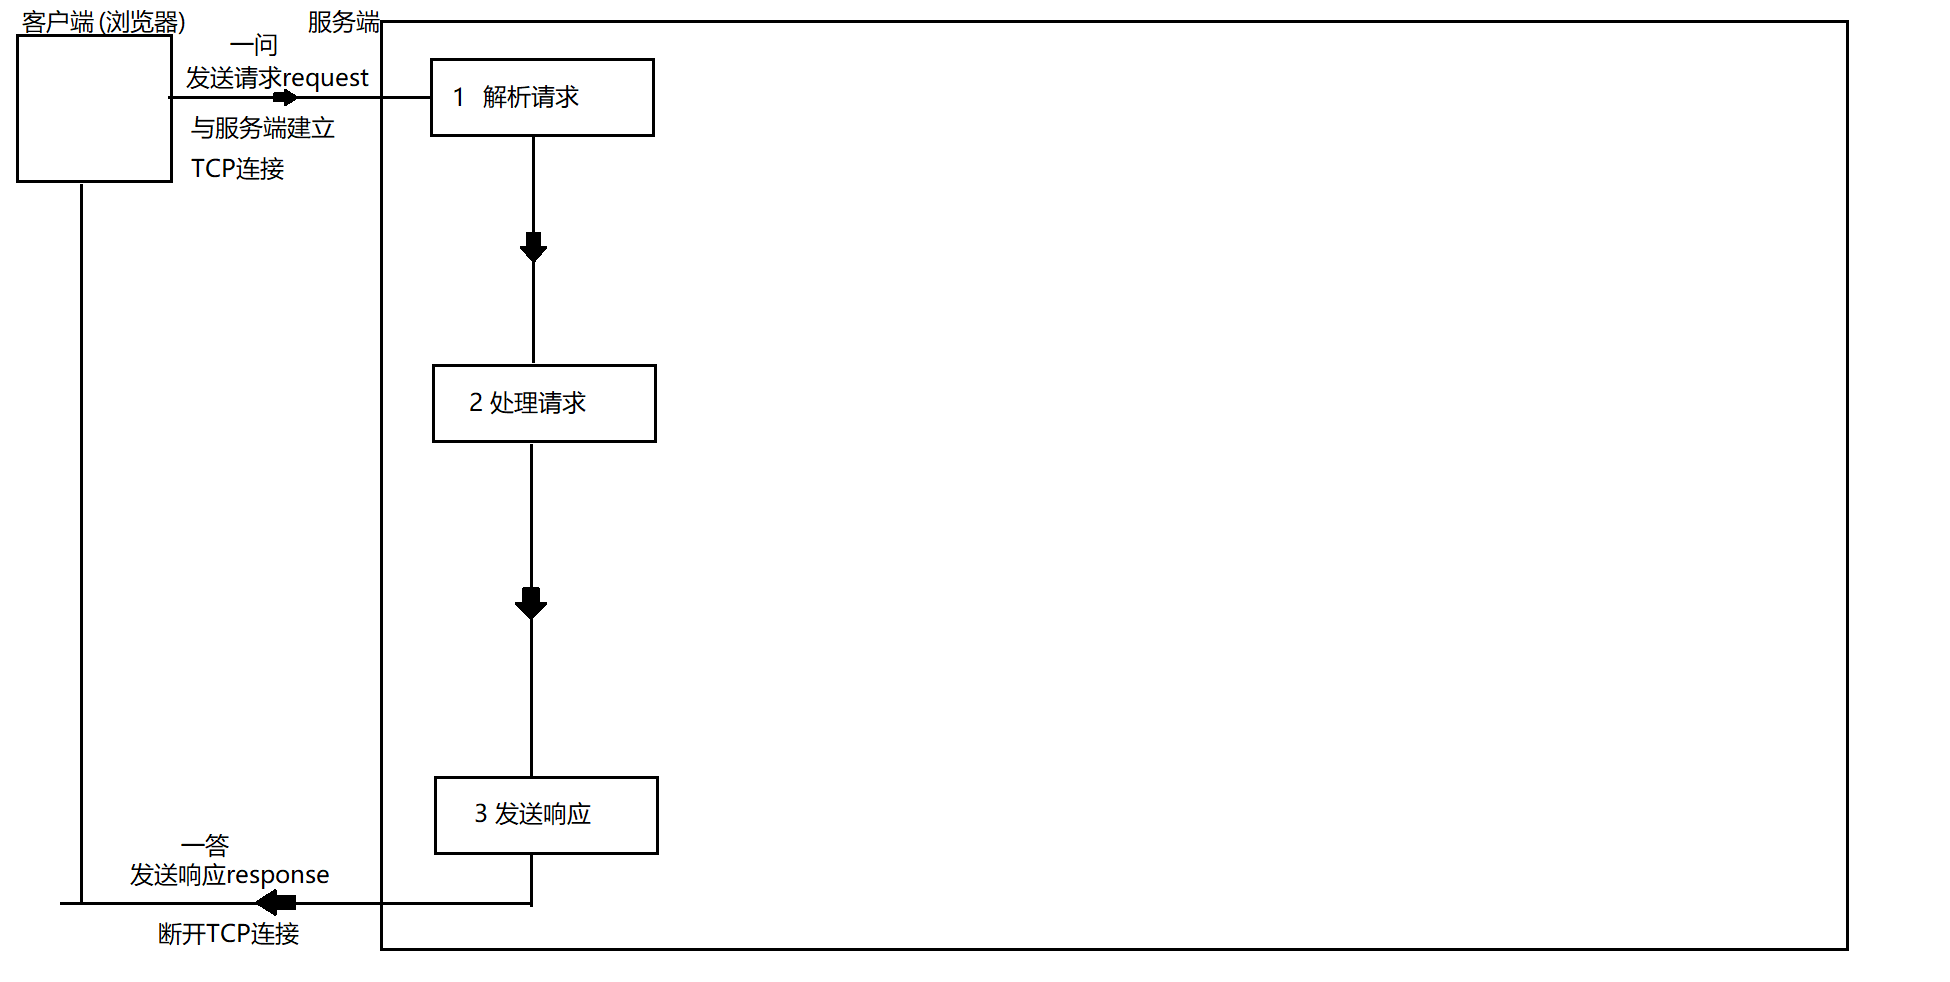
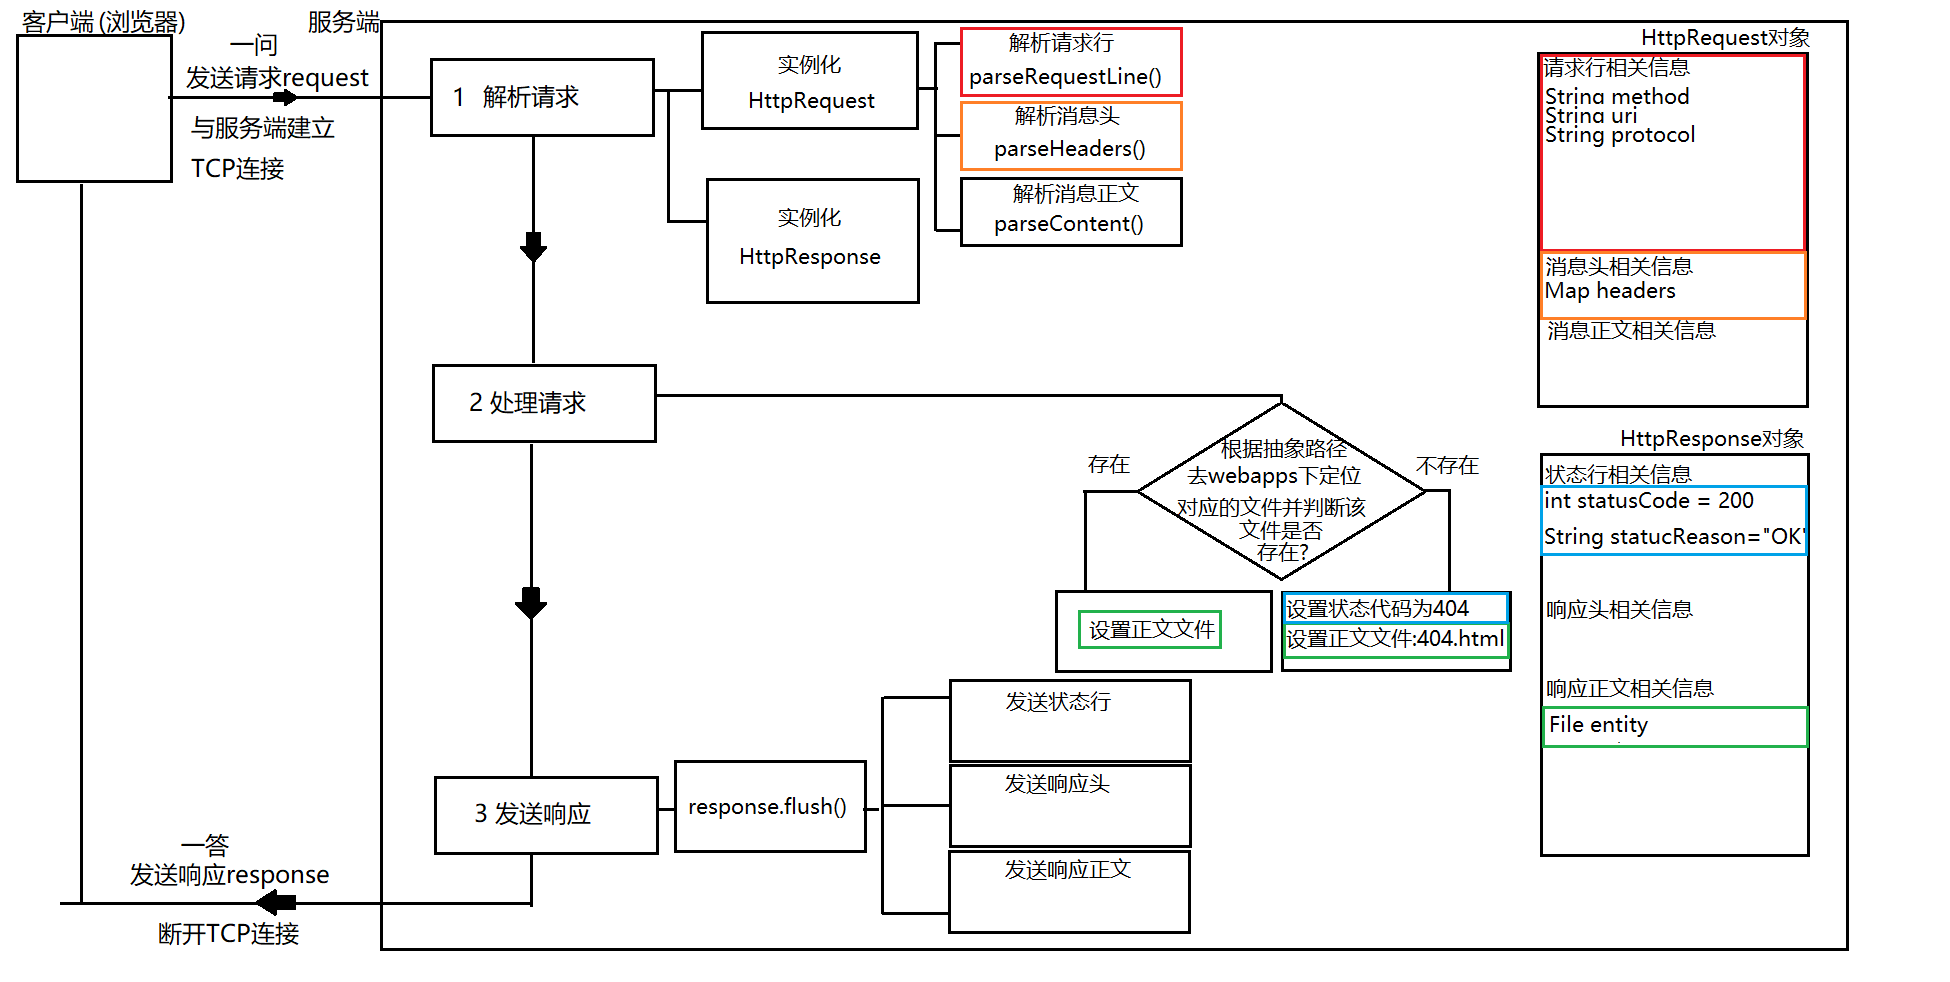
第四天

diff --git a/webapps/myweb/index.html b/webapps/myweb/index.html
@@ -38,10 +38,25 @@
 
          -->
         <center>
-            <h1>百度</h1>
+            <!--<h1>百度</h1>-->
+            <!--
+                相对路径:
+                ./:当前目录,在页面上指定的相对路径是被浏览器解释的
+                   而浏览器理解当前目录的位置是根据浏览器地址栏中
+                   请求当前页面时的路径而定的.
+                例如:请求当前index.html页面时,浏览器地址栏输入路径:
+                http://localhost:8088/myweb/index.html
+                当前目录为:
+                http://localhost:8088/myweb/
+                因此下面图片src="./logo.png"
+                浏览器理解该图片的实际路径为:
+                http://localhost:8088/myweb/logo.png
+             -->
+            <img src="./logo.png"><br>
             <input type="text" size="32">
             <input type="button" value="百度一下"><br>
-            <a href="http://www.taobao.com">淘宝</a><br>
+            <a href="http://www.taobao.com">淘宝</a>
+            <a href="./classTable.html">课程表</a><br>
             <table border="1">
                 <tr>
                     <td rowspan="2">第一列</td>

diff --git a/V9/src/main/java/com/webserver/http/HttpRequest.java b/V9/src/main/java/com/webserver/http/HttpRequest.java
@@ -1,0 +1,116 @@
+package com.webserver.http;
+
+import java.io.IOException;
+import java.io.InputStream;
+import java.net.Socket;
+import java.util.HashMap;
+import java.util.Map;
+
+/**
+ * 请求对象
+ * 该类的每一个实例用于表示客户端发送给浏览器的一个HTTP请求
+ * HTTP协议规定一个请求包含三部分内容:
+ * 请求行,消息头,消息正文
+ */
+public class HttpRequest {
+    //请求行相关信息
+    private String method;//请求方式
+    private String uri;//抽象路径
+    private String protocol;//协议版本
+
+    //消息头相关信息
+    //存放所有消息头的Map,key:消息头的名字 value:消息头的值
+    private Map<String,String> headers = new HashMap<>();
+
+    //消息正文相关信息
+
+
+    private Socket socket;
+    /**
+     * 实例化HttpRequest的过程就是解析请求的过程
+     */
+    public HttpRequest(Socket socket) throws IOException {
+        this.socket = socket;
+        //1解析请求行
+        parseRequestLine();
+        //2解析消息头
+        parseHeaders();
+        //3解析消息正文
+        parseContent();
+    }
+
+    /**
+     * 解析请求行
+     */
+    private void parseRequestLine() throws IOException {
+        String line = readLine();
+        System.out.println("请求行:"+line);
+        String[] data = line.split("\\s");
+        method = data[0];
+        uri = data[1];
+        protocol = data[2];
+        System.out.println("method:"+method);
+        System.out.println("uri:"+uri);
+        System.out.println("protocol:"+protocol);
+    }
+
+    /**
+     * 解析消息头
+     */
+    private void parseHeaders() throws IOException {
+        while(true) {
+            String line = readLine();
+            //读取请求行时如果返回的是空字符串,说明单独读取到了CRLF
+            if(line.isEmpty()){
+                break;
+            }
+            System.out.println("消息头:" + line);
+            String[] data = line.split(":\\s");
+            headers.put(data[0],data[1]);
+        }
+        System.out.println("headers:"+headers);
+    }
+
+    /**
+     * 解析消息正文
+     */
+    private void parseContent(){}
+
+    private String readLine() throws IOException {
+        /*
+            调用同一个socket的getInputStream方法时,无论调用多少次
+            返回的输入流始终是同一个流.输出流也是一样的.
+         */
+        InputStream in = socket.getInputStream();
+        StringBuilder builder = new StringBuilder();
+        //cur表示本次读取到的字符,pre表示上次读取到的字符
+        char cur='a',pre='a';
+        int d;
+        while((d = in.read())!=-1){
+            cur = (char)d;
+            //上次读到的是回车符本次读取到的是换行符
+            if(pre==13&&cur==10){
+                break;
+            }
+            builder.append(cur);
+            pre = cur;
+        }
+        return builder.toString().trim();
+    }
+
+    public String getMethod() {
+        return method;
+    }
+
+    public String getUri() {
+        return uri;
+    }
+
+    public String getProtocol() {
+        return protocol;
+    }
+
+    public String getHeader(String name){
+        return headers.get(name);
+    }
+}

diff --git a/V9/src/main/java/com/webserver/http/HttpResponse.java b/V9/src/main/java/com/webserver/http/HttpResponse.java
@@ -1,0 +1,99 @@
+package com.webserver.http;
+
+import java.io.File;
+import java.io.FileInputStream;
+import java.io.IOException;
+import java.io.OutputStream;
+import java.net.Socket;
+
+/**
+ * 响应对象
+ * 该类的每一个实例用于表示一个HTTP的响应.每个响应应当包含三部分:
+ * 状态行,响应头,响应正文
+ */
+public class HttpResponse {
+    //状态行相关信息
+    private int statusCode = 200;//状态代码(默认值为200)
+    private String statusReason = "OK";//状态描述
+    //响应头相关信息
+
+    //响应正文相关信息
+    private File entity;//正文对应的一个实体文件
+
+    private Socket socket;
+    public HttpResponse(Socket socket){
+        this.socket = socket;
+    }
+
+
+    /**
+     * 将当前响应对象内容按照标准的响应格式发送给客户端
+     */
+    public void flush() throws IOException {
+        //1发送状态行
+        sendStatusLine();
+        //2发送响应头
+        sendHeaders();
+        //3发送响应正文
+        sendContent();
+    }
+
+    private void sendStatusLine() throws IOException {
+        String line = "HTTP/1.1"+" "+statusCode+" "+statusReason;
+        println(line);
+    }
+    private void sendHeaders() throws IOException {
+        String line = "Content-Type: text/html";
+        println(line);
+
+        line = "Content-Length: "+entity.length();
+        println(line);
+
+        //单独发送CRLF表示响应头发送完毕
+        println("");
+    }
+    private void sendContent() throws IOException {
+        OutputStream out = socket.getOutputStream();
+        try(
+            FileInputStream fis = new FileInputStream(entity);
+        ){
+            byte[] data = new byte[1024 * 10];
+            int len;
+            while ((len = fis.read(data)) != -1) {
+                out.write(data, 0, len);
+            }
+        }//不用写catch,因为异常要抛给流程控制,所以在方法上定义了throws
+         //不写finally是因为上面的try使用了自动关闭特性,编译器会补充finally
+    }
+
+    private void println(String line) throws IOException {
+        OutputStream out = socket.getOutputStream();
+        out.write(line.getBytes("ISO8859-1"));
+        out.write(13);//发送了一个回车符
+        out.write(10);//发送了一个换行符
+    }
+
+    public int getStatusCode() {
+        return statusCode;
+    }
+
+    public void setStatusCode(int statusCode) {
+        this.statusCode = statusCode;
+    }
+
+    public String getStatusReason() {
+        return statusReason;
+    }
+
+    public void setStatusReason(String statusReason) {
+        this.statusReason = statusReason;
+    }
+
+    public File getEntity() {
+        return entity;
+    }
+
+    public void setEntity(File entity) {
+        this.entity = entity;
+    }
+}

diff --git a/V9/src/main/java/com/webserver/core/ClientHandler.java b/V9/src/main/java/com/webserver/core/ClientHandler.java
@@ -1,0 +1,55 @@
+package com.webserver.core;
+
+
+import com.webserver.http.HttpRequest;
+import com.webserver.http.HttpResponse;
+import com.webserver.servlet.DispatcherServlet;
+
+import java.io.*;
+import java.net.Socket;
+import java.nio.charset.StandardCharsets;
+import java.util.HashMap;
+import java.util.Map;
+
+/**
+ * 处理与指定客户端的HTTP交互
+ * HTTP协议要求客户端与服务端交互为"一问一答"原则.因此当客户端连接
+ * 服务端后,服务端便会启动一个线程来执行ClientHandler.
+ * 这里分为三步完成一次HTTP交互处理:
+ * 1:解析请求(读取客户端发送过来的HTTP请求内容)
+ * 2:处理请求(分析请求内容理解意图并进行对应的处理)
+ * 3:发送响应(将处理结果包含在一个HTTP响应内容中,将其回复给客户端)
+ */
+public class ClientHandler implements Runnable{
+    private Socket socket;
+    public ClientHandler(Socket socket){
+        this.socket = socket;
+    }
+    public void run() {
+        try{
+            //1解析请求
+            HttpRequest request = new HttpRequest(socket);
+            HttpResponse response = new HttpResponse(socket);
+
+            //2处理请求
+            DispatcherServlet servlet = new DispatcherServlet();
+            servlet.service(request,response);
+
+            //3发送响应
+            response.flush();
+
+        }catch(IOException e){
+            e.printStackTrace();
+        }finally {
+            try {
+                //交互完毕后与客户端断开连接(HTTP协议要求)
+                socket.close();
+            } catch (IOException e) {
+                e.printStackTrace();
+            }
+        }
+    }
+
+
+
+}

diff --git a/V9/src/main/java/com/webserver/core/WebServer.java b/V9/src/main/java/com/webserver/core/WebServer.java
@@ -1,0 +1,48 @@
+package com.webserver.core;
+
+import java.io.IOException;
+import java.io.InputStream;
+import java.net.ServerSocket;
+import java.net.Socket;
+
+/**
+ * WebServer主类
+ * WebServer是一个Web容器，实现了Tomcat的基础功能。
+ */
+public class WebServer {
+    private ServerSocket serverSocket;
+
+    public WebServer(){
+        try {
+            System.out.println("正在启动服务端...");
+            serverSocket = new ServerSocket(8088);
+            System.out.println("服务端启动完毕!");
+        } catch (IOException e) {
+            e.printStackTrace();
+        }
+    }
+
+    public void start(){
+        try {
+            System.out.println("等待客户端链接...");
+            Socket socket = serverSocket.accept();
+            System.out.println("一个客户端链接了!");
+
+            //启动一个线程来处理该客户端的交互
+            ClientHandler handler = new ClientHandler(socket);
+            Thread t = new Thread(handler);
+            t.start();
+
+
+
+        } catch (IOException e) {
+            e.printStackTrace();
+        }
+
+    }
+
+    public static void main(String[] args) {
+        WebServer server = new WebServer();
+        server.start();
+    }
+}

diff --git a/V9/src/main/java/com/webserver/servlet/DispatcherServlet.java b/V9/src/main/java/com/webserver/servlet/DispatcherServlet.java
@@ -1,0 +1,27 @@
+package com.webserver.servlet;
+
+import com.webserver.http.HttpRequest;
+import com.webserver.http.HttpResponse;
+
+import java.io.File;
+
+/**
+ * 用于处理请求环节
+ */
+public class DispatcherServlet {
+    public void service(HttpRequest request, HttpResponse response){
+        String path = request.getUri();
+        File file = new File("./webapps"+path);
+        if(file.exists()&&file.isFile()){
+            //文件存在则直接响应
+            response.setEntity(file);
+        }else{
+            //文件不存在或者定位的是一个目录,则响应404
+            response.setStatusCode(404);
+            response.setStatusReason("NotFound");
+            response.setEntity(
+                    new File("./webapps/root/404.html")
+            );
+        }
+    }
+}
